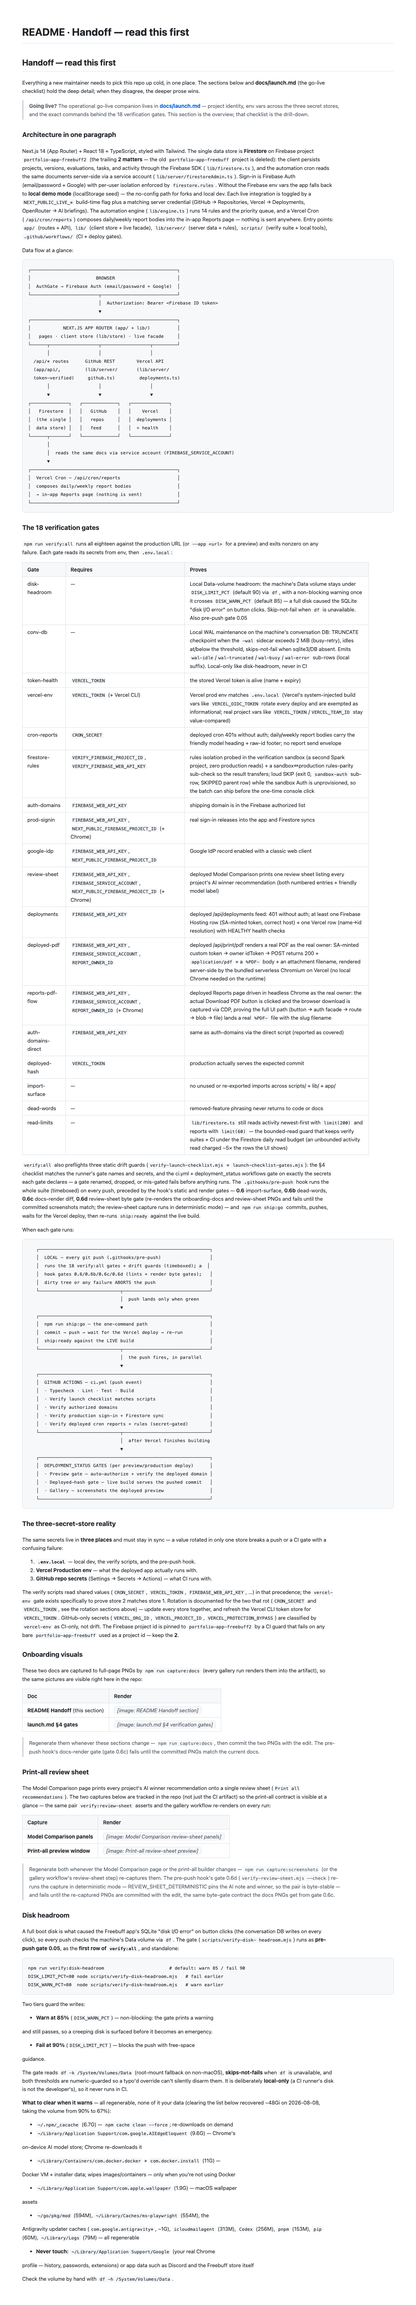
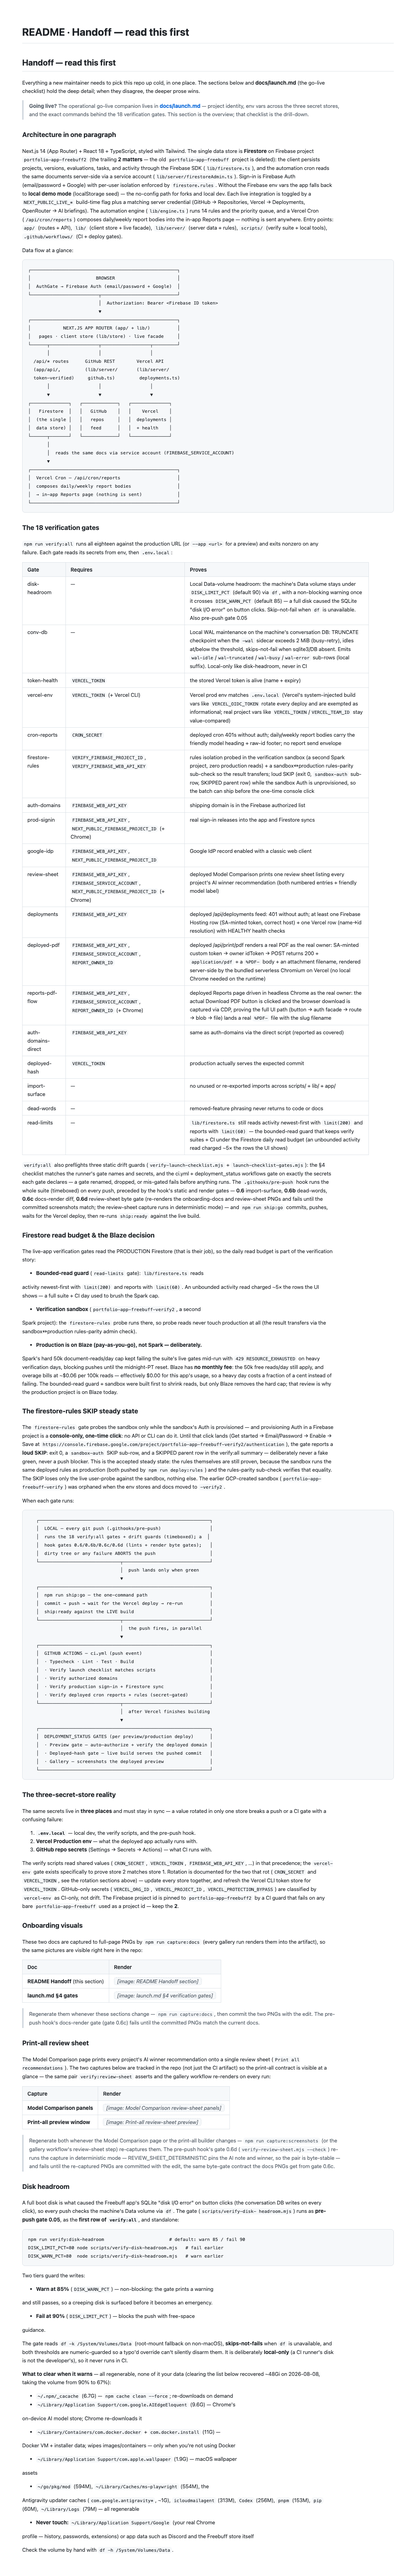
docs(handoff): record the Blaze decision and the firestore-rules SKIP steady state
Adds two subsections to the README Handoff section: (1) the Firestore read
budget story — the bounded-read guard, the verification sandbox, and why
the production project is deliberately on Blaze (pay-as-you-go, no monthly
fee, ~$0.06/100k overage) instead of Spark's hard 50k reads/day cap that
kept failing live gates with 429s; (2) the firestore-rules SKIP steady
state — Auth provisioning is a console-only one-time click, the SKIP is
exit 0 with a loud sandbox-auth sub-row (never a fake green, never a
blocker), and the rules stay proven via deploy:rules + the rules-parity
check. Regenerates docs-handoff.png.

Generated with Codebuff 🤖

diff --git a/README.md b/README.md
@@ -135,6 +135,46 @@ the committed screenshots match; the review-sheet capture runs in
 deterministic mode) — and `npm run ship:go` commits, pushes, waits for the
 Vercel deploy, then re-runs `ship:ready` against the live build.
 
+### Firestore read budget & the Blaze decision
+
+The live-app verification gates read the PRODUCTION Firestore (that is
+their job), so the daily read budget is part of the verification story:
+
+- **Bounded-read guard** (`read-limits` gate): `lib/firestore.ts` reads
+  activity newest-first with `limit(200)` and reports with `limit(60)`. An
+  unbounded activity read charged ~5× the rows the UI shows — a full suite
+  + CI day used to brush the Spark cap.
+- **Verification sandbox** (`portfolio-app-freebuff-verify2`, a second
+  Spark project): the `firestore-rules` probe runs there, so probe reads
+  never touch production at all (the result transfers via the
+  sandbox↔production rules-parity admin check).
+- **Production is on Blaze (pay-as-you-go), not Spark — deliberately.**
+  Spark's hard 50k document-reads/day cap kept failing the suite's live
+  gates mid-run with `429 RESOURCE_EXHAUSTED` on heavy verification days,
+  blocking pushes until the midnight-PT reset. Blaze has **no monthly
+  fee**: the 50k free reads/day still apply, and overage bills at ~$0.06
+  per 100k reads — effectively $0.00 for this app's usage, so a heavy day
+  costs a fraction of a cent instead of failing. The bounded-read guard +
+  sandbox were built first to shrink reads, but only Blaze removes the
+  hard cap; that review is why the production project is on Blaze today.
+
+### The firestore-rules SKIP steady state
+
+The `firestore-rules` gate probes the sandbox only while the sandbox's
+Auth is provisioned — and provisioning Auth in a Firebase project is a
+**console-only, one-time click**: no API or CLI can do it. Until that
+click lands (Get started → Email/Password → Enable → Save at
+`https://console.firebase.google.com/project/portfolio-app-freebuff-verify2/authentication`),
+the gate reports a **loud SKIP**: exit 0, a `sandbox-auth` SKIP sub-row,
+and a SKIPPED parent row in the verify:all summary — deliberately never a
+fake green, never a push blocker. This is the accepted steady state: the
+rules themselves are still proven, because the sandbox runs the same
+deployed rules as production (both pushed by `npm run deploy:rules`) and
+the rules-parity sub-check verifies that equality. The SKIP loses only the
+live user-probe against the sandbox, nothing else. The earlier
+GCP-created sandbox (`portfolio-app-freebuff-verify`) was orphaned when
+the env stores and docs moved to `-verify2`.
+
 When each gate runs:
 
 ```text
